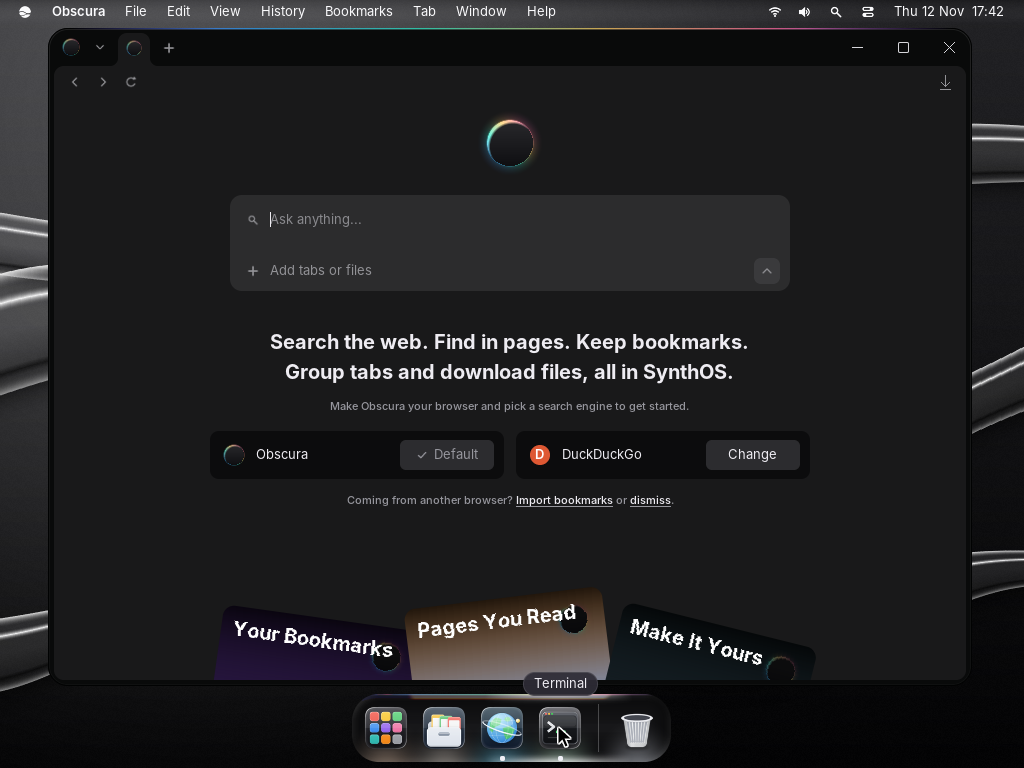
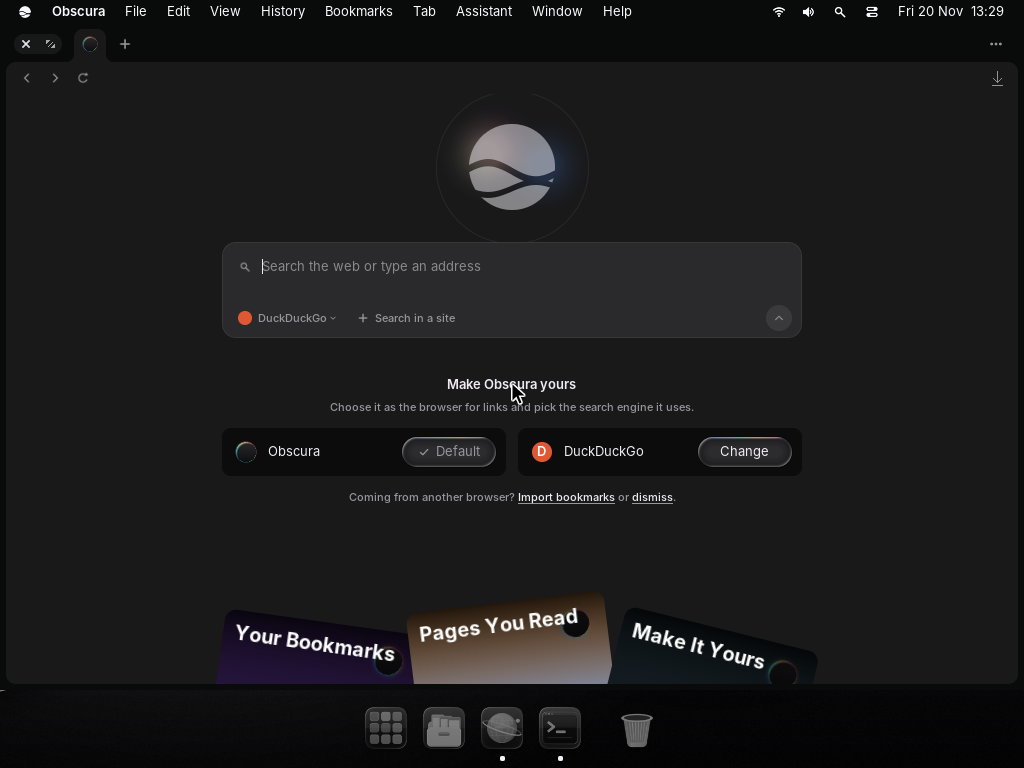
TASKS 15: checked in QEMU, fresh Obscura screenshot
Claude-Session: https://claude.ai/code/session_01NP9dBzP6ZSsmMGTzMmstSQ

diff --git a/TASKS.md b/TASKS.md
@@ -58,8 +58,11 @@
     Сделано по правилам значков macOS (одинаковые «сквиркл»-плитки, свет сверху, тени, тёмные варианты), но рисунки
     свои: значки Apple защищены авторским правом и в систему копироваться не могут. Перерисованы диск, «About» и
     выключение (`tools/mkicons.py`).
-15. По скриншоту: в стандартной теме открытый браузер и система должны выглядеть один в один (отличаются только
-    значки на панели и сверху, а в браузере — логотип).
+15. ~~По скриншоту: в стандартной теме открытый браузер и система должны выглядеть один в один (отличаются только
+    значки на панели и сверху, а в браузере — логотип).~~ Проверено в QEMU (`docs/images/browser.png`): тёмная тема,
+    чёрные обои Mono, строка вкладок из значков, маленькие «назад/вперёд/обновить/скачать», тёмная стартовая страница
+    с полем поиска по центру. Отличия — те, что просили позже: кнопки окна системные (капсула слева), в поле —
+    «Search the web or type an address», логотип SynthOS.
 16. ~~После установки на рабочем столе ничего нет, только виджет часов посередине сверху.
     Доработка: часы сейчас не выглядят стоящими посередине — поставить точно по центру.~~ Сделано: первые часы
     стоят точно посередине экрана (а не по сетке), пока их не передвинут.
